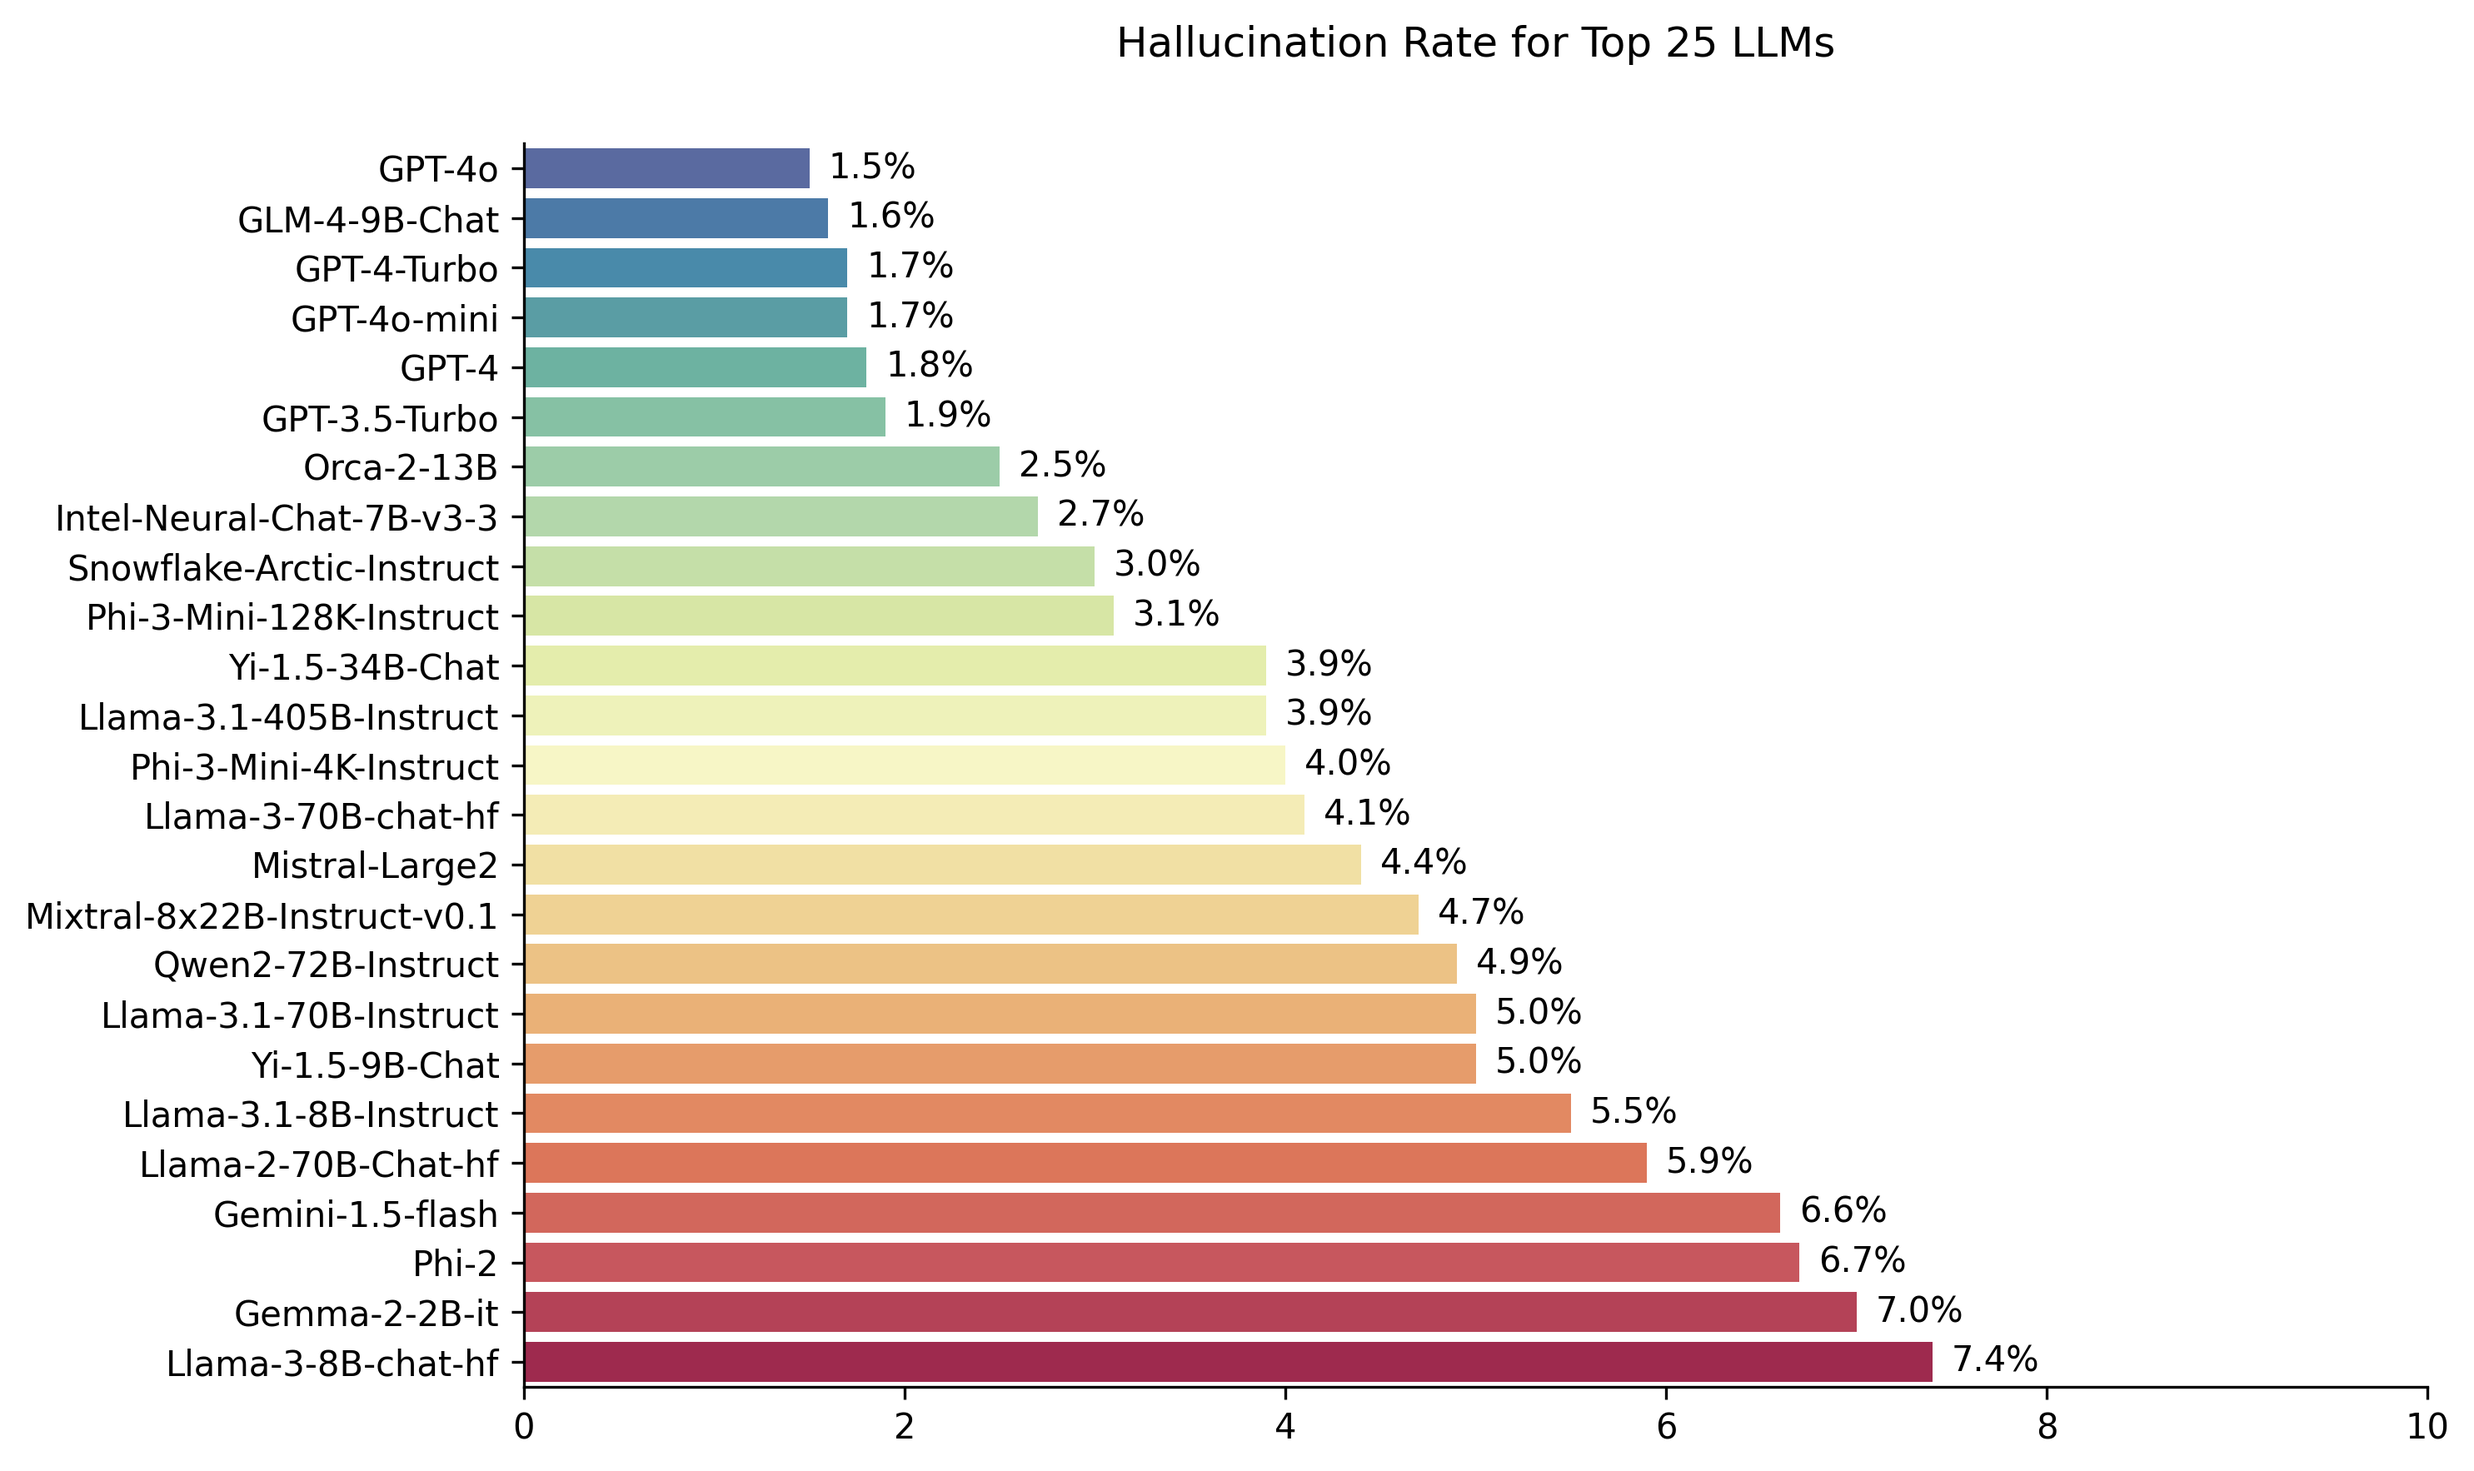
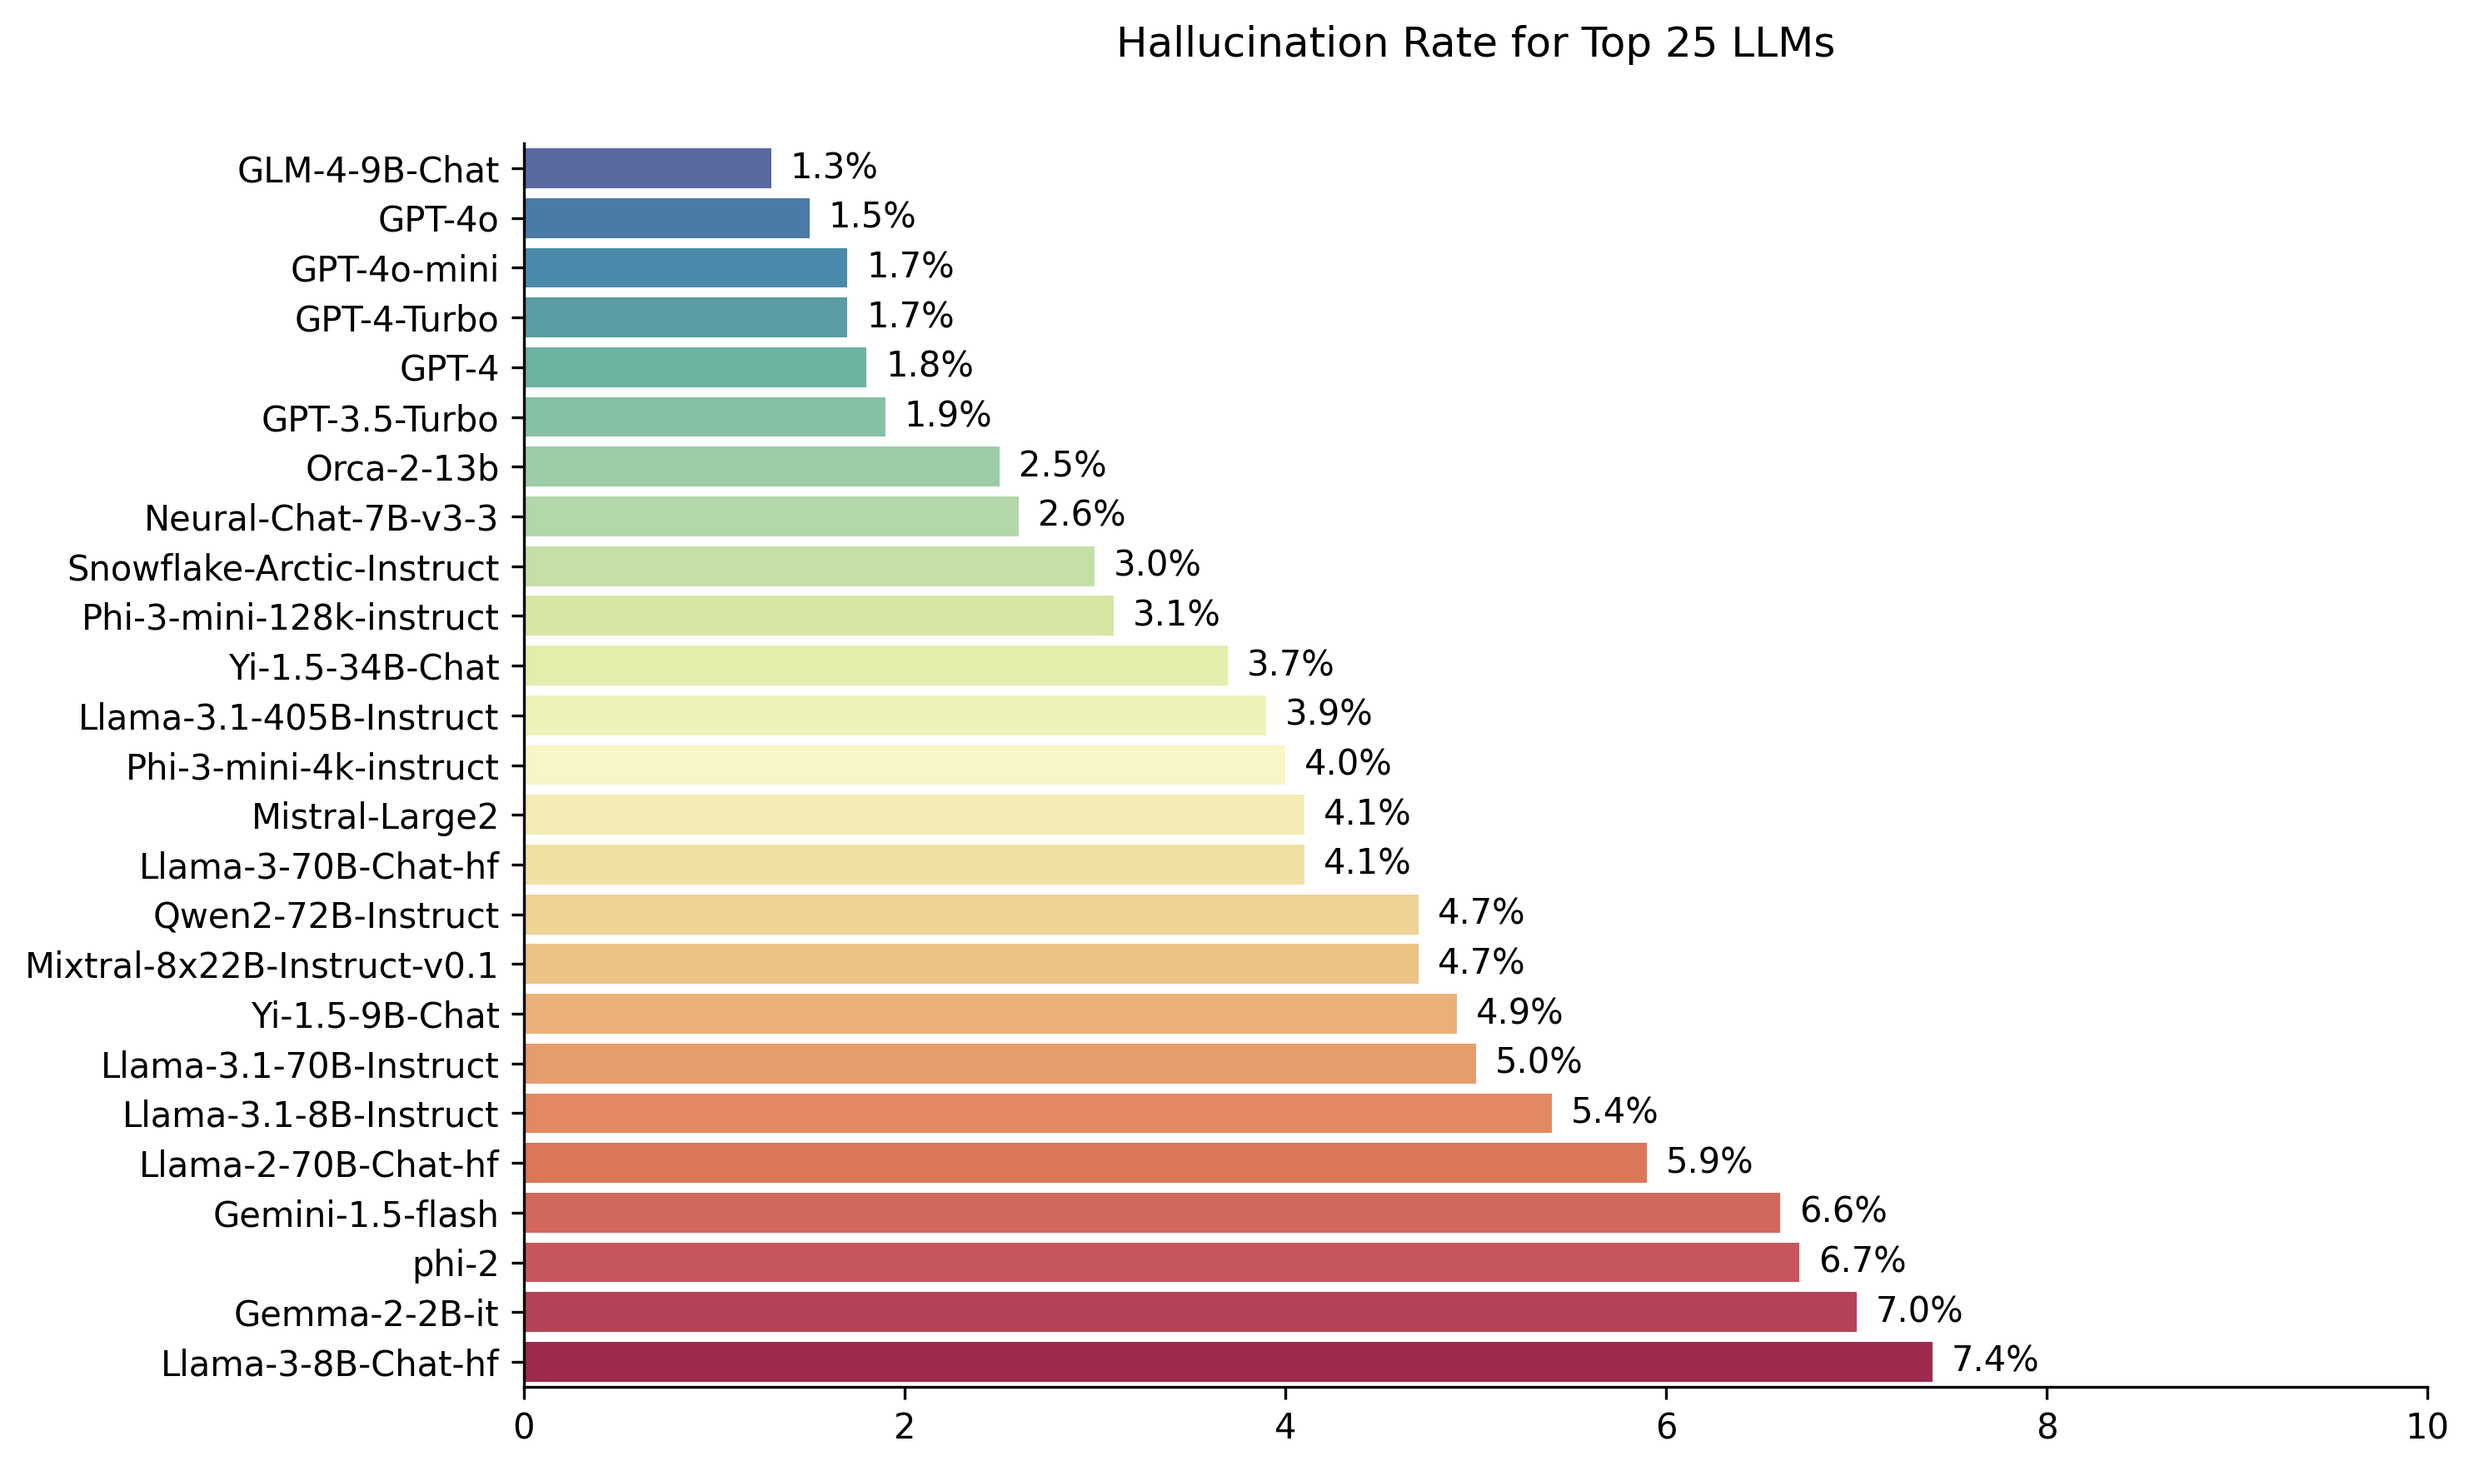
update results with HF HHEM2.1

diff --git a/README.md b/README.md
@@ -20,32 +20,32 @@ If you are interested in the previous leaderboard, which was based on HHEM-1.0, 
 </table>
 
 
-Last updated on August 5th, 2024
+Last updated on August 14th, 2024
 
 ![Plot: hallucination rates of various LLMs](./img/hallucination_rates_of_various_LLMs.png)
 
 |Model|Hallucination Rate|Factual Consistency Rate|Answer Rate|Average Summary Length (Words)|
 |----|----:|----:|----:|----:|
+|Zhipu AI GLM-4-9B-Chat|1.3 %|98.7 %|100.0 %|58.1|
 |GPT-4o|1.5 %|98.5 %|100.0 %|77.8|
-|Zhipu AI GLM-4-9B-Chat|1.6 %|98.4 %|100.0 %|58.1|
 |GPT-4o-mini|1.7 %|98.3 %|100.0 %|76.3|
 |GPT-4-Turbo|1.7 %|98.3 %|100.0 %|86.2|
 |GPT-4|1.8 %|98.2 %|100.0 %|81.1|
 |GPT-3.5-Turbo|1.9 %|98.1 %|99.6 %|84.1|
 |Microsoft Orca-2-13b|2.5 %|97.5 %|100.0 %|66.2|
-|Intel Neural-Chat-7B-v3-3|2.7 %|97.3 %|100.0 %|60.7|
+|Intel Neural-Chat-7B-v3-3|2.6 %|97.4 %|100.0 %|60.7|
 |Snowflake-Arctic-Instruct|3.0 %|97.0 %|100.0 %|68.7|
 |Microsoft Phi-3-mini-128k-instruct|3.1 %|96.9 %|100.0 %|60.1|
-|01-AI Yi-1.5-34B-Chat|3.9 %|96.1 %|100.0 %|83.7|
+|01-AI Yi-1.5-34B-Chat|3.7 %|96.3 %|100.0 %|83.7|
 |Llama-3.1-405B-Instruct|3.9 %|96.1 %|99.6 %|85.7|
 |Microsoft Phi-3-mini-4k-instruct|4.0 %|96.0 %|100.0 %|86.8|
+|Mistral-Large2|4.1 %|95.9 %|100.0 %|77.4|
 |Llama-3-70B-Chat-hf|4.1 %|95.9 %|99.2 %|68.5|
-|Mistral-Large2|4.4 %|95.6 %|100.0 %|77.4|
+|Qwen2-72B-Instruct|4.7 %|95.3 %|100.0 %|100.1|
 |Mixtral-8x22B-Instruct-v0.1|4.7 %|95.3 %|99.9 %|92.0|
-|Qwen2-72B-Instruct|4.9 %|95.1 %|100.0 %|100.1|
+|01-AI Yi-1.5-9B-Chat|4.9 %|95.1 %|100.0 %|85.7|
 |Llama-3.1-70B-Instruct|5.0 %|95.0 %|100.0 %|79.6|
-|01-AI Yi-1.5-9B-Chat|5.0 %|95.0 %|100.0 %|85.7|
-|Llama-3.1-8B-Instruct|5.5 %|94.5 %|100.0 %|71.0|
+|Llama-3.1-8B-Instruct|5.4 %|94.6 %|100.0 %|71.0|
 |Llama-2-70B-Chat-hf|5.9 %|94.1 %|99.9 %|84.9|
 |Google Gemini-1.5-flash|6.6 %|93.4 %|98.1 %|62.8|
 |Microsoft phi-2|6.7 %|93.3 %|91.5 %|80.8|
@@ -53,10 +53,10 @@ Last updated on August 5th, 2024
 |Llama-3-8B-Chat-hf|7.4 %|92.6 %|99.8 %|79.7|
 |Google Gemini-Pro|7.7 %|92.3 %|98.4 %|89.5|
 |CohereForAI c4ai-command-r-plus|7.8 %|92.2 %|100.0 %|71.2|
-|01-AI Yi-1.5-6B-Chat|8.2 %|91.8 %|100.0 %|98.9|
+|01-AI Yi-1.5-6B-Chat|7.9 %|92.1 %|100.0 %|98.9|
 |databricks dbrx-instruct|8.3 %|91.7 %|100.0 %|85.9|
 |Anthropic Claude-3-5-sonnet|8.6 %|91.4 %|100.0 %|103.0|
-|Mistral-7B-Instruct-v0.3|9.8 %|90.2 %|100.0 %|98.4|
+|Mistral-7B-Instruct-v0.3|9.5 %|90.5 %|100.0 %|98.4|
 |Anthropic Claude-3-opus|10.1 %|89.9 %|95.5 %|92.1|
 |Google Gemma-2-9B-it|10.1 %|89.9 %|100.0 %|70.2|
 |Llama-2-13B-Chat-hf|10.5 %|89.5 %|99.8 %|82.1|
